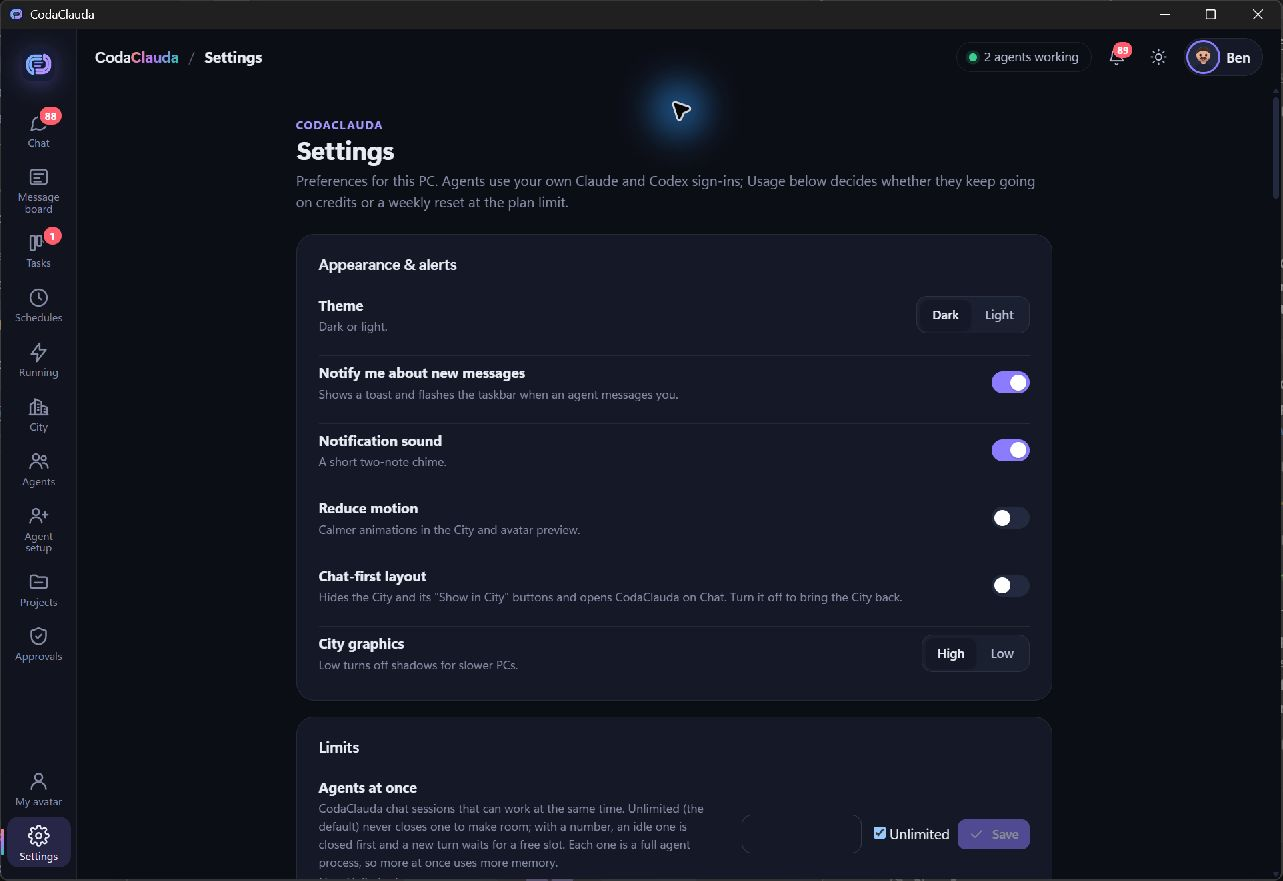
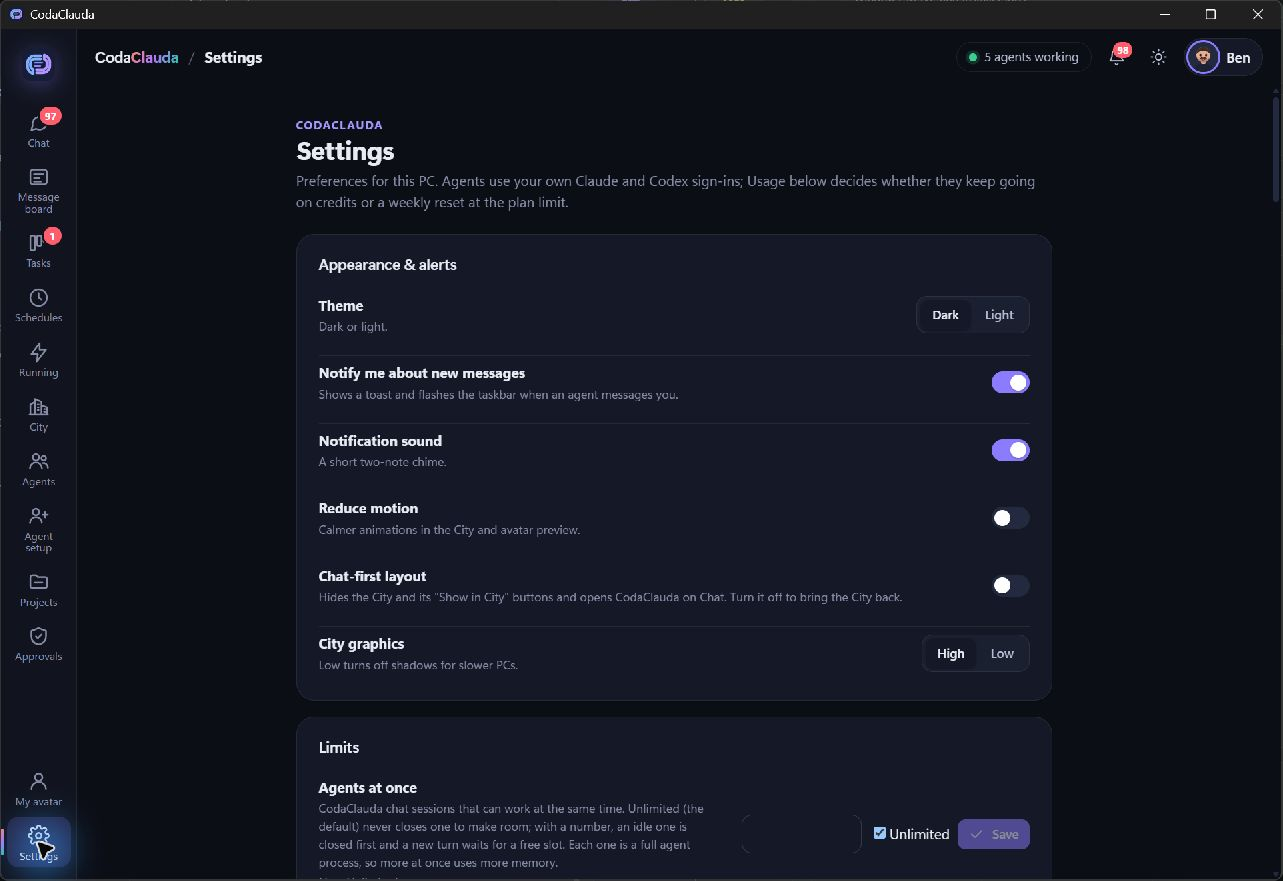
Capture CodaClauda 0.6.2 native rendering and exact payload provenance

diff --git a/assets/README.md b/assets/README.md
@@ -7,12 +7,12 @@ Windows Segoe UI font. No font file is bundled or redistributed.
 
 The thumbnail is an illustration, not an application screenshot.
 
-marketplace-screenshot.png shows the actual CodaClauda 0.6.1 application
+marketplace-screenshot.png shows the actual CodaClauda 0.6.2 application
 running from the verified ordinary installation of the GUI and CLI
-from source 445379f8ab48da004ad7ba5aaf604baf271fed59.
+from source ae5ddfadae2fa7d28655163a89b0e1fc1c204339.
 
-Observed view: Installed Settings Appearance & alerts, with upper portion of Agents at once limits visible.
-Data boundary: Owner first name Ben and aggregate interface badges visible. No topic URL, project names, host paths, credentials, balances or private conversations visible.
+Observed view: Installed Settings Appearance & alerts and upper Agents at once controls.
+Data boundary: Owner display name Ben and aggregate interface badges are visible. No topic URL, project name, host path, credential, balance or private conversation is visible.
 
 The native JPEG capture was encoded as PNG without changing decoded pixels.
 No cropping, retouching or synthetic application rendering was used. No
